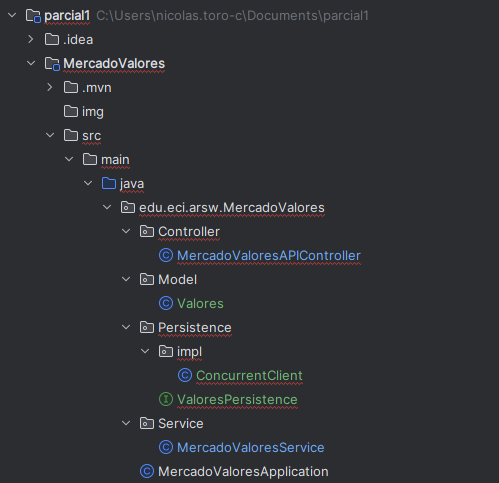
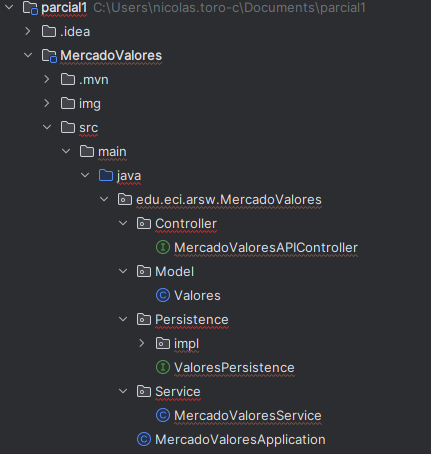
Correcion README

Changed region(s): [[0.0, 0.0, 0.8445, 1.0]]

diff --git a/README.md b/README.md
@@ -74,6 +74,8 @@ Para la creación del proyecto se implementó Springboot con Maven y se vinculó
 
 # Lógica del negocio
 
+![img](/img/estructura.png)
+
 ## Implementación de Service
 
 Se agregaron los paquetes de Service, donde se movía como tal la lógica del negocia donde se implementó principalmente getters y setters.
